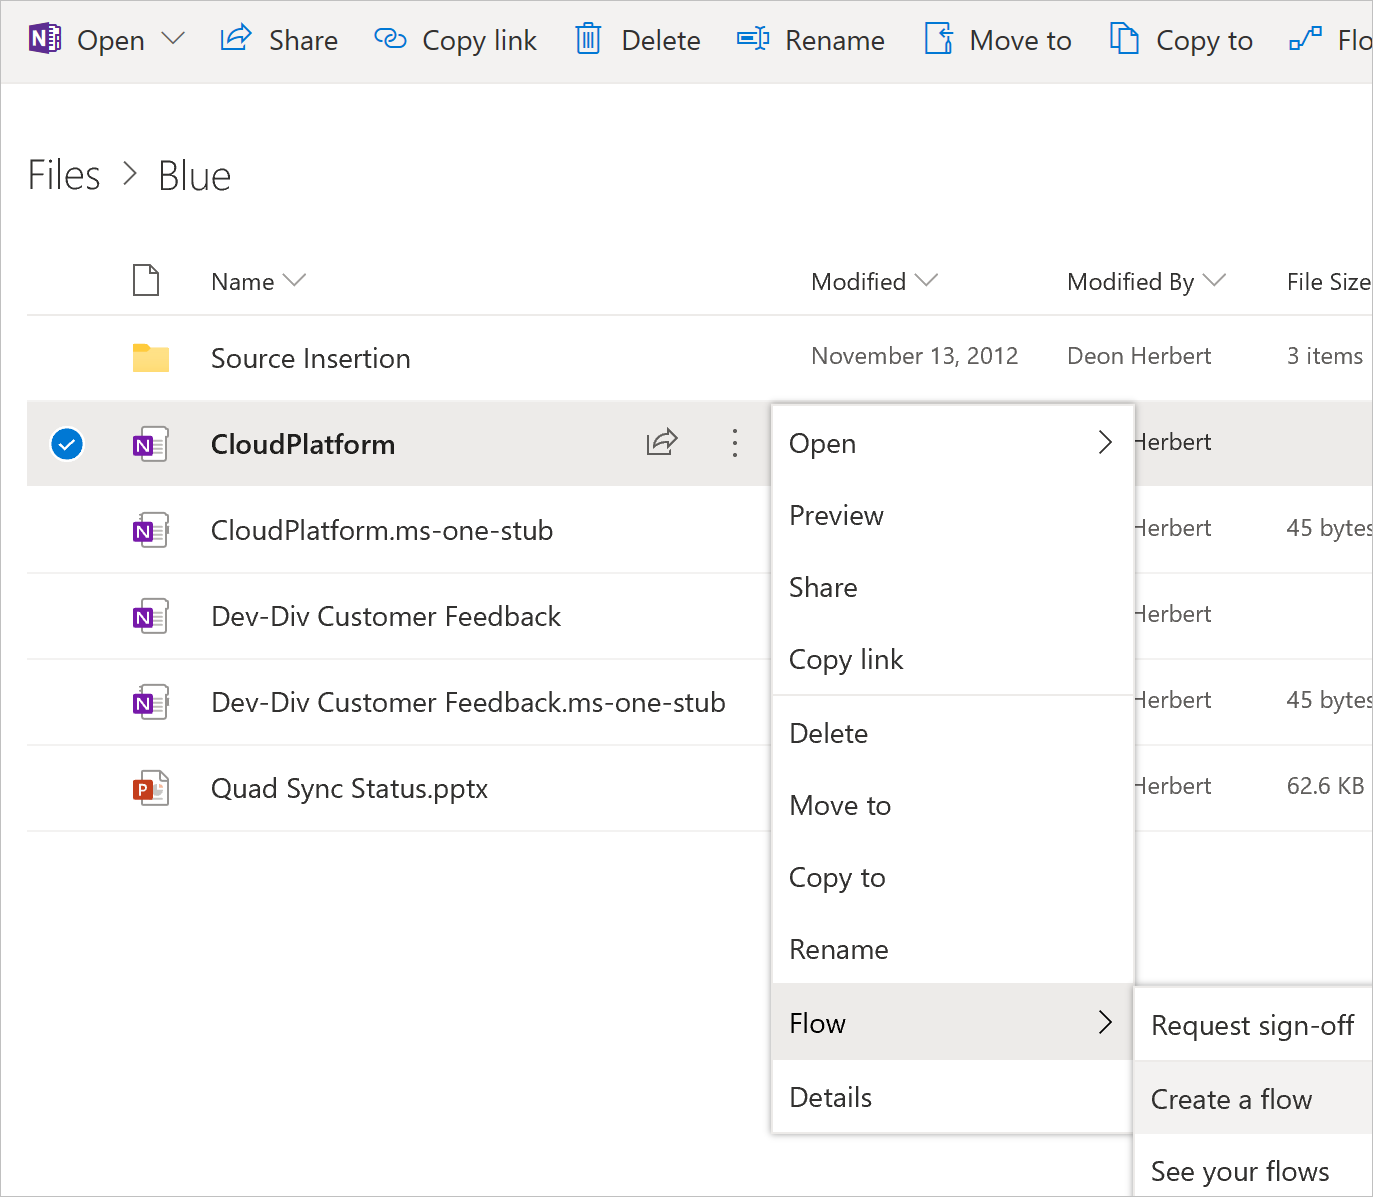
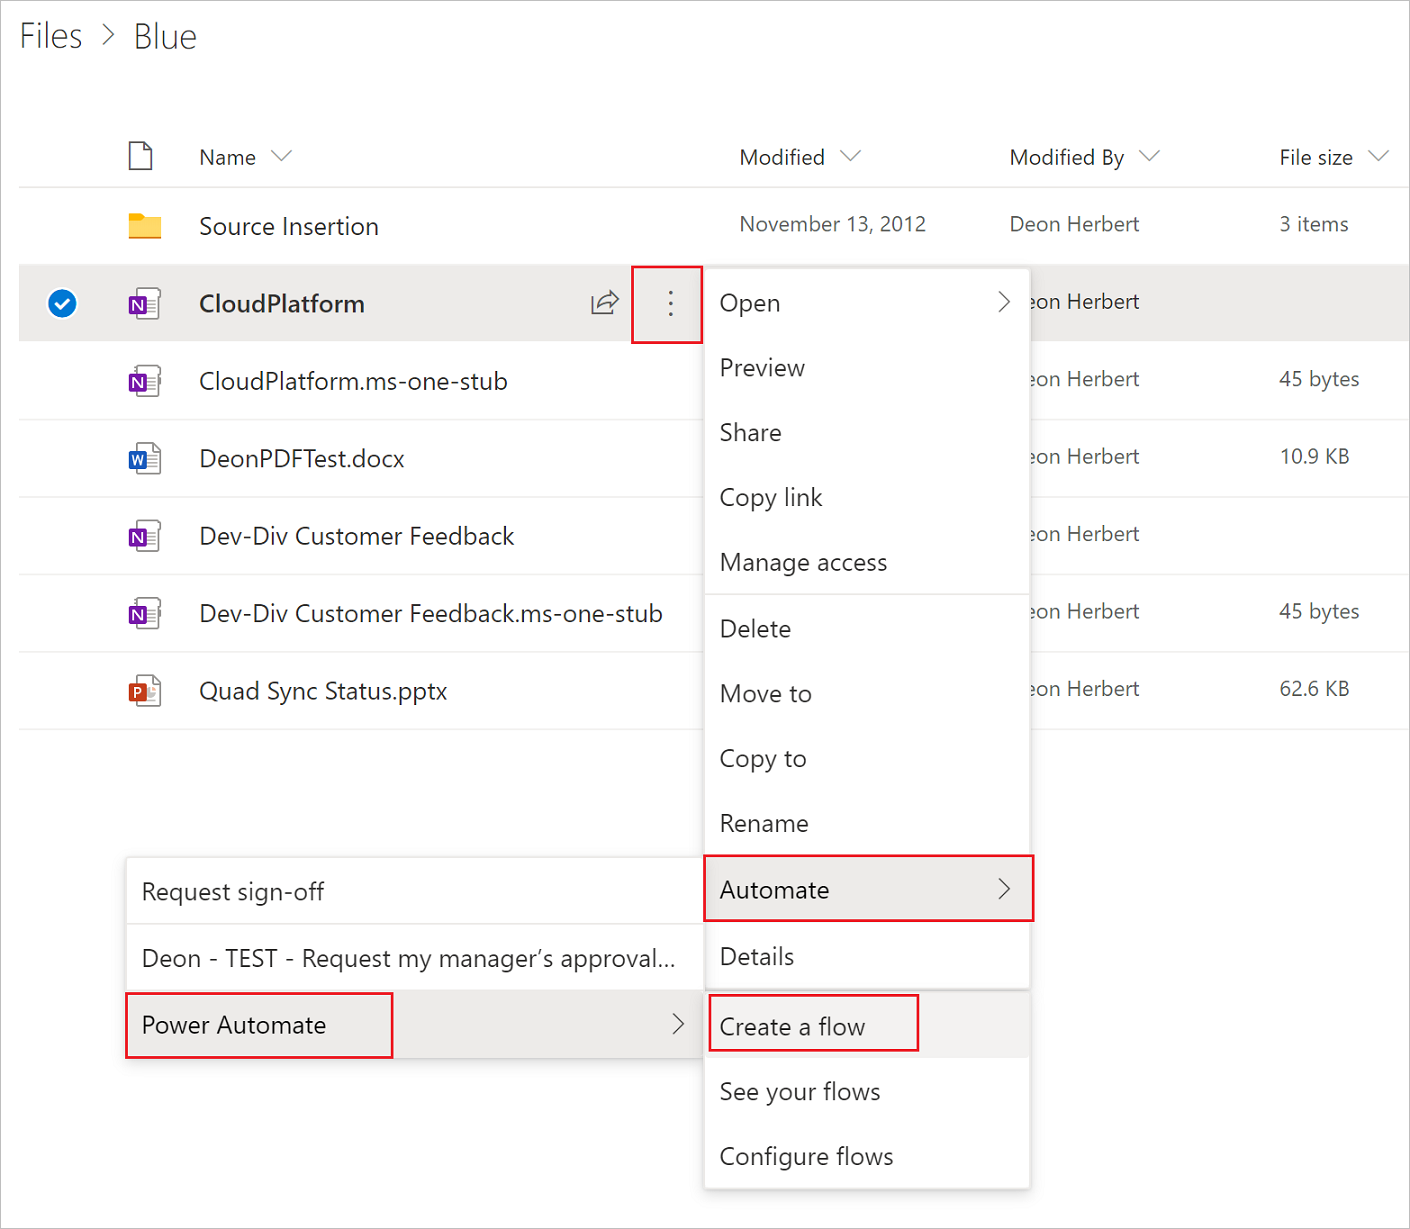
Update images now that OneDrive uses the Power Automate name

diff --git a/articles/onedrive-business-launch-panel.md b/articles/onedrive-business-launch-panel.md
@@ -14,7 +14,7 @@ ms.devlang: na
 ms.topic: article
 ms.tgt_pltfrm: na
 ms.workload: na
-ms.date: 08/25/2019
+ms.date: 04/06/2020
 search.app: 
   - Flow
 search.audienceType: 
@@ -37,9 +37,9 @@ In this walkthrough, we'll create a simple flow that uses one of the many [OneDr
 ## Create a flow that requests manager approval for a file in OneDrive for Business
 
 1. Sign into OneDrive for Business.
-1. Find, and then select the file on which you want to create the flow.
+1. Find, and then select the file for which you want to create the flow.
 1. Select the **Show actions** link (three dots).
-1. Select **Flow** > **Create a flow**.
+1. Select **Automate** > **Power Automate** > **Create a flow**.
 
      ![Create flow](./media/onedrive-launch-panel/create-flow.png) 
 
